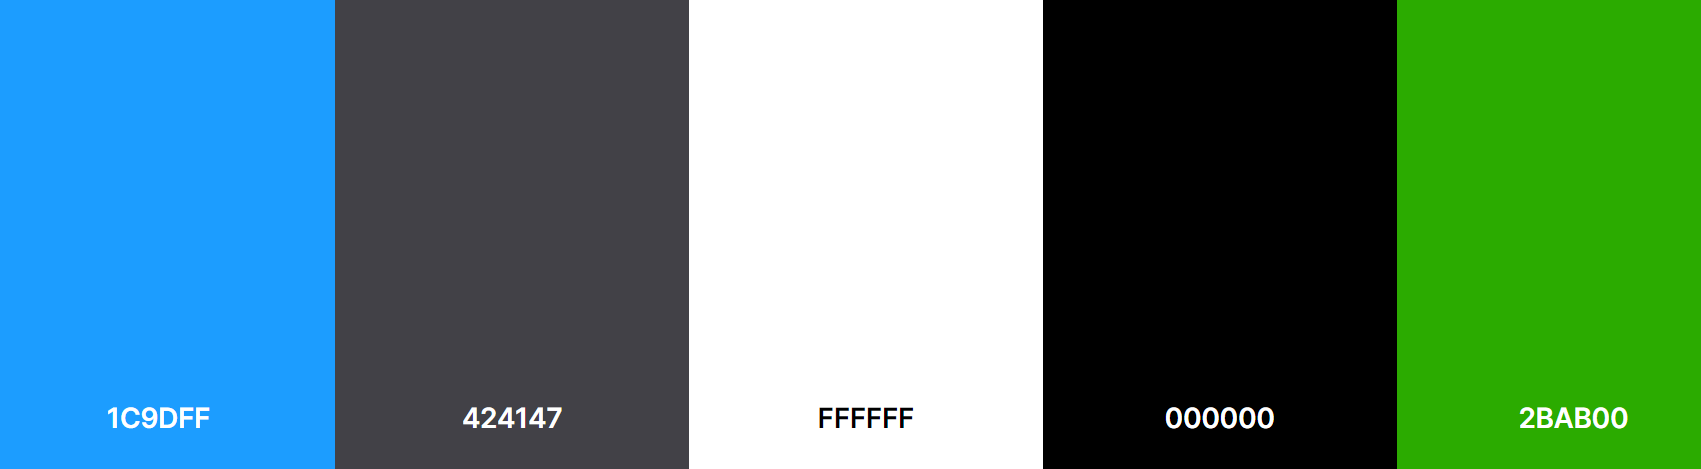
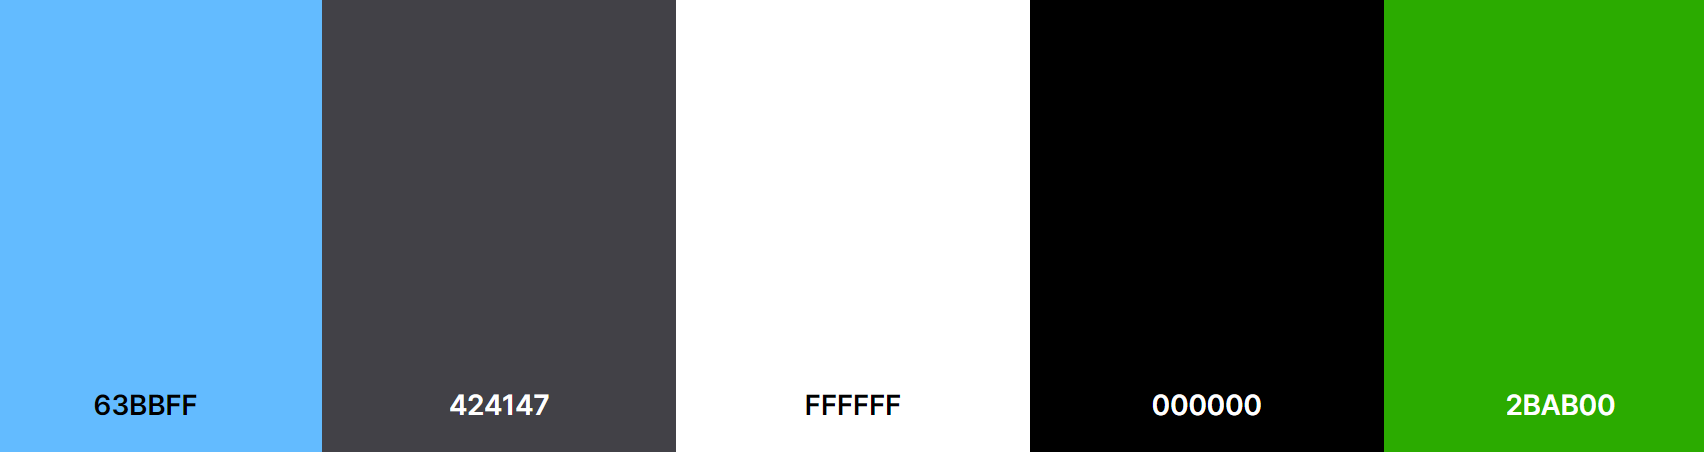
Change color pallete

diff --git a/index.html b/index.html
@@ -12,7 +12,10 @@
     <title>Untitled Memory Game</title>
 </head>
 <body>
-
+    <h1>Memory Game Name</h1>
+    <h2>Welcome to the game <span data-type="userName">0</span></h2>
+    <h3>Game rules and instructions</h3>
+        <p>Lorem ipsum dolor sit amet consectetur adipisicing elit. Cumque molestias odit in, sapiente blanditiis velit, officiis accusamus deleniti veniam totam voluptate dolores quibusdam ab labore suscipit nemo nihil porro autem?</p>
     <script src="https://kit.fontawesome.com/6ab0a7bbf9.js" crossorigin="anonymous"></script>
     <script src="assets/js/script.js"></script>
 </body>

diff --git a/assets/css/style.css b/assets/css/style.css
@@ -1,1 +1,5 @@
 @import url('https://fonts.googleapis.com/css2?family=Mina&family=Rubik&display=swap');
+
+body {
+    background-color: #63bbff;
+}
